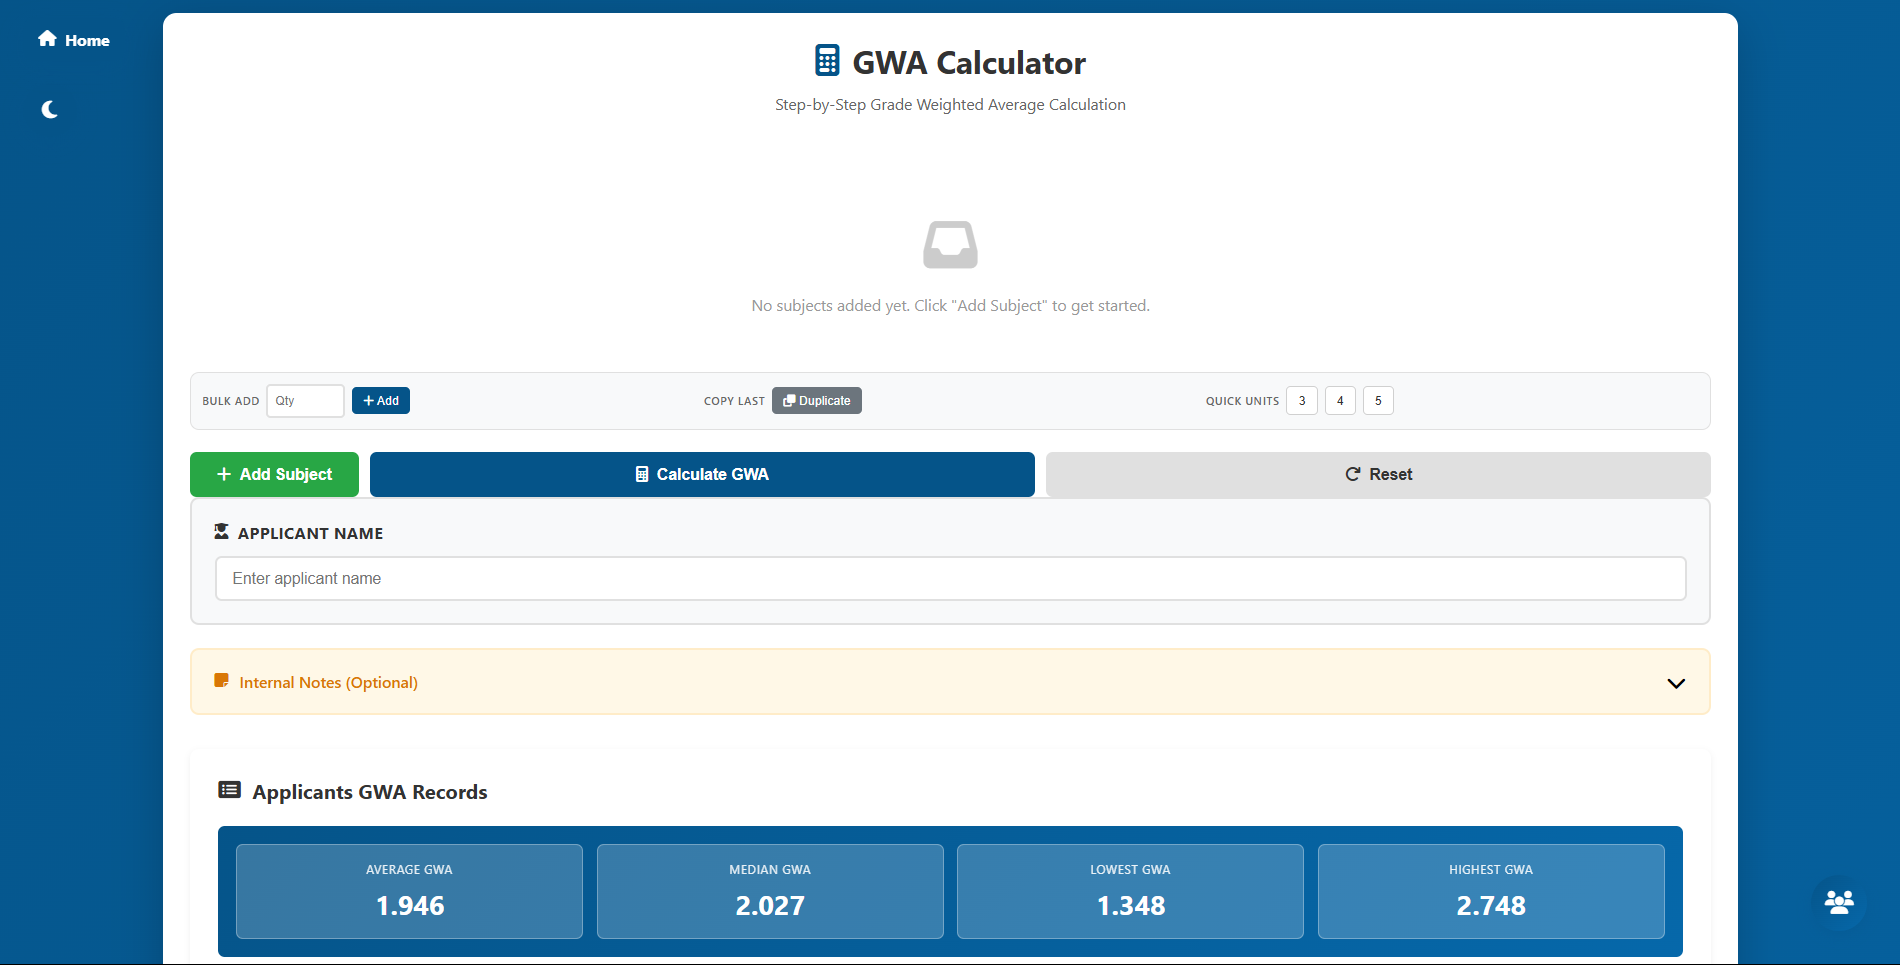
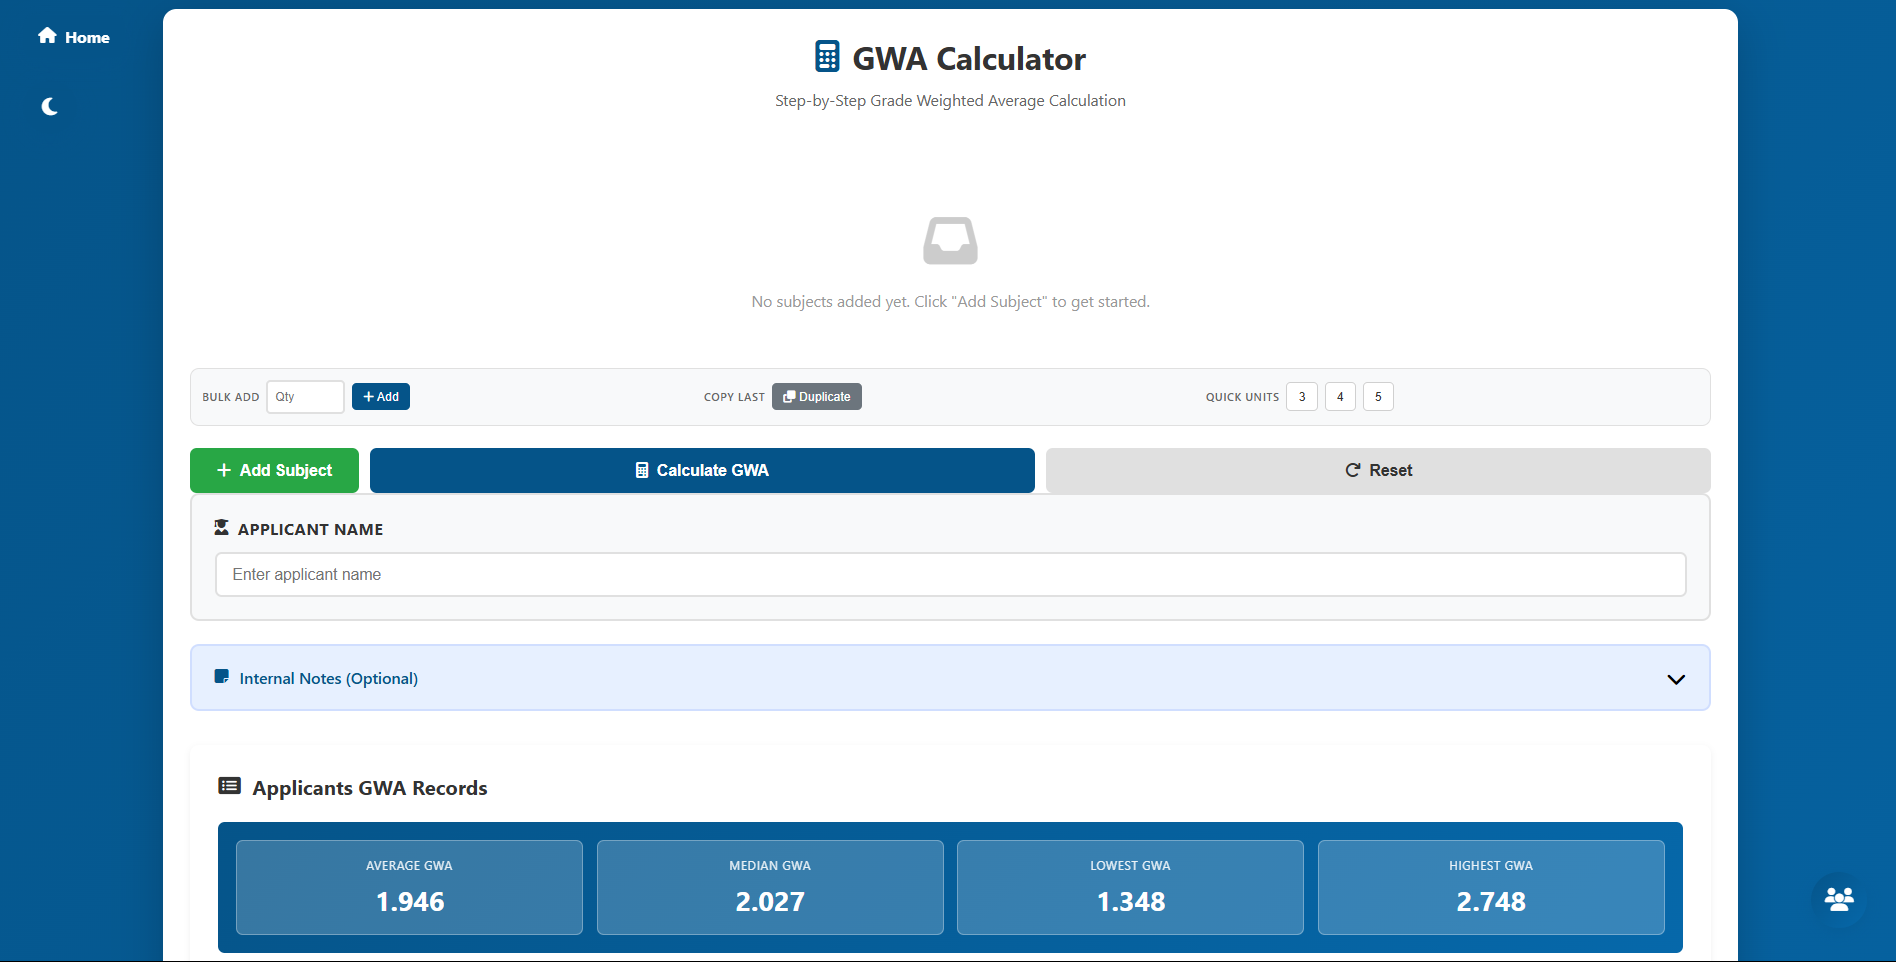
replace the image for gwa calculator and color for internal notes

diff --git a/gwa_calculator.html b/gwa_calculator.html
@@ -212,8 +212,8 @@
 
         /* Collapsible Notes Section */
         .notes-section {
-            background: #fff8e7;
-            border: 2px solid #ffecc8;
+            background: #e7f0ff;
+            border: 2px solid #d0deff;
             border-radius: 8px;
             margin-bottom: 24px;
         }
@@ -228,12 +228,12 @@
         }
 
         .notes-header:hover {
-            background: #ffecc8;
+            background: #e7f0ff;
         }
 
         .notes-title {
             font-weight: 600;
-            color: #d97706;
+            color: #055489;
             font-size: 14px;
             display: flex;
             align-items: center;
